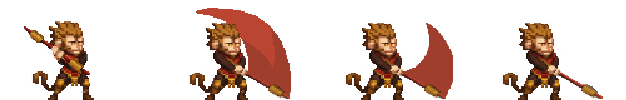
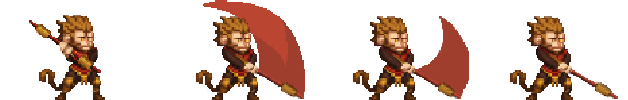
changed player atk sprite

diff --git a/Player/Player.cpp b/Player/Player.cpp
@@ -17,8 +17,9 @@
 #include <iostream>
 #include <ostream>
 
-const int PLAYER_SIZE = 100;
-const int SPEED = PLAYER_SIZE / 16;
+const int PLAYER_WIDTH  = 157;
+const int PLAYER_HEIGHT = 100;
+const int SPEED = PLAYER_HEIGHT / 16;
 
 const int ATTACK_RADIUS = 100;
 
@@ -43,7 +44,7 @@ void Player::Create(int hp, int x, int y, std::string name){
     flag = 0;
     idle_sheet = al_load_bitmap("Resource/images/character/idle-sheet.png");
     if (!idle_sheet) {
-        std::cerr << "Failed to load player_bitmap" << std::endl;
+        std::cerr << "Failed to load player_bitmap(idle-sheet.png)" << std::endl;
     }
     int frameW = al_get_bitmap_width(idle_sheet) / IDLE_FRAME_COUNT;
     int frameH = al_get_bitmap_height(idle_sheet);
@@ -58,7 +59,7 @@ void Player::Create(int hp, int x, int y, std::string name){
 
     idle_sheet = al_load_bitmap("Resource/images/character/attack-sheet.png");
     if (!idle_sheet) {
-        std::cerr << "Failed to load player_bitmap" << std::endl;
+        std::cerr << "Failed to load player_bitmap(atk)" << std::endl;
     }
     frameW = al_get_bitmap_width(idle_sheet) / ATTACK_FRAME_COUNT;
     frameH = al_get_bitmap_height(idle_sheet);
@@ -138,9 +139,9 @@ void Player::Update(float deltaTime) {
         knockbackRemaining -= step;
         // (optional) you can check collisions here if you don’t want them shoved into walls
         if (dx >= 0 && dy >= 0 &&
-        dx + PLAYER_SIZE - 1 < scene->MapWidth * scene->BlockSize && dy + PLAYER_SIZE - 1 < scene->MapHeight * scene->BlockSize &&
-        !scene->map.IsCollision(dx, dy) && !scene->map.IsCollision(dx + PLAYER_SIZE - 1, dy + PLAYER_SIZE - 1) &&
-        !scene->map.IsCollision(dx, dy + PLAYER_SIZE - 1) && !scene->map.IsCollision(dx + PLAYER_SIZE - 1, dy)) {
+        dx + PLAYER_WIDTH - 1 < scene->MapWidth * scene->BlockSize && dy + PLAYER_HEIGHT - 1 < scene->MapHeight * scene->BlockSize &&
+        !scene->map.IsCollision(dx, dy) && !scene->map.IsCollision(dx + PLAYER_WIDTH - 1, dy + PLAYER_HEIGHT - 1) &&
+        !scene->map.IsCollision(dx, dy + PLAYER_HEIGHT - 1) && !scene->map.IsCollision(dx + PLAYER_WIDTH - 1, dy)) {
             x = dx;
             y = dy;
         }
@@ -161,15 +162,15 @@ void Player::Update(float deltaTime) {
         // test a one-pixel step
         int testY = y + signDY;
         int leftX = x;
-        int rightX = x + PLAYER_SIZE - 1;
+        int rightX = x + PLAYER_WIDTH - 1;
         bool collided = false;
 
         if (signDY > 0) {
             // moving down: check the two bottom corners
             // world-coords = (leftX, testY+PLAYER_SIZE-1) and (rightX, testY+PLAYER_SIZE-1)
-            if (scene->map.IsCollision(leftX,           testY + PLAYER_SIZE - 1) ||
-                scene->map.IsCollision(rightX,          testY + PLAYER_SIZE - 1) ||
-                scene->map.IsCollision(leftX + PLAYER_SIZE / 2, testY + PLAYER_SIZE - 1))
+            if (scene->map.IsCollision(leftX,           testY + PLAYER_HEIGHT - 1) ||
+                scene->map.IsCollision(rightX,          testY + PLAYER_HEIGHT - 1) ||
+                scene->map.IsCollision(leftX + PLAYER_WIDTH / 2, testY + PLAYER_HEIGHT - 1))
             {
                 // We’ve hit the ground. Land here:
                 vy = 0;
@@ -182,7 +183,7 @@ void Player::Update(float deltaTime) {
             // world-coords = (leftX, testY) and (rightX, testY)
             if (scene->map.IsCollision(leftX,           testY) ||
                 scene->map.IsCollision(rightX,          testY) ||
-                scene->map.IsCollision(leftX + PLAYER_SIZE / 2, testY))
+                scene->map.IsCollision(leftX + PLAYER_WIDTH / 2, testY))
             {
                 // We’ve hit a ceiling. Stop upward momentum:
                 vy = 0;
@@ -224,9 +225,9 @@ void Player::Update(float deltaTime) {
     int mapPixelW = scene->MapWidth * scene->BlockSize;
     int mapPixelH = scene->MapHeight * scene->BlockSize;
     if (x < 0)                           x = 0;
-    if (x + PLAYER_SIZE > mapPixelW)     x = mapPixelW - PLAYER_SIZE;
+    if (x + PLAYER_WIDTH > mapPixelW)     x = mapPixelW - PLAYER_WIDTH;
     if (y < 0)                           y = 0;
-    if (y + PLAYER_SIZE > mapPixelH)     y = mapPixelH - PLAYER_SIZE;
+    if (y + PLAYER_HEIGHT > mapPixelH)     y = mapPixelH - PLAYER_HEIGHT;
 }
 
 Player::Player(){
@@ -272,9 +273,9 @@ void Player::move(int keyCode) {
         flag = 0;
     }
     if (dx >= 0 && dy >= 0 &&
-        dx + PLAYER_SIZE - 1 < scene->MapWidth * scene->BlockSize && dy + PLAYER_SIZE - 1 < scene->MapHeight * scene->BlockSize &&
-        !scene->map.IsCollision(dx, dy) && !scene->map.IsCollision(dx + PLAYER_SIZE - 1, dy + PLAYER_SIZE - 1) &&
-        !scene->map.IsCollision(dx, dy + PLAYER_SIZE - 1) && !scene->map.IsCollision(dx + PLAYER_SIZE - 1, dy)) {
+        dx + PLAYER_WIDTH - 1 < scene->MapWidth * scene->BlockSize && dy + PLAYER_HEIGHT - 1 < scene->MapHeight * scene->BlockSize &&
+        !scene->map.IsCollision(dx, dy) && !scene->map.IsCollision(dx + PLAYER_WIDTH - 1, dy + PLAYER_HEIGHT - 1) &&
+        !scene->map.IsCollision(dx, dy + PLAYER_HEIGHT - 1) && !scene->map.IsCollision(dx + PLAYER_WIDTH - 1, dy)) {
         x = dx;
         y = dy;
     }
@@ -301,7 +302,7 @@ void Player::Draw(Camera cam){
           0, 0,
           al_get_bitmap_width(bmp), al_get_bitmap_height(bmp),
           dx, dy,
-          PLAYER_SIZE, PLAYER_SIZE,
+          PLAYER_WIDTH, PLAYER_HEIGHT,
           flag
         );
     } else {
@@ -310,7 +311,7 @@ void Player::Draw(Camera cam){
           0, 0,
           al_get_bitmap_width(bmp), al_get_bitmap_height(bmp),
           dx, dy,
-          PLAYER_SIZE, PLAYER_SIZE,
+          PLAYER_WIDTH, PLAYER_HEIGHT,
           flag
         );
     }
@@ -320,7 +321,7 @@ void Player::Draw(Camera cam){
 bool Player::enemyInRange(int x, int y) {
     if (dir == RIGHT) {
         if (x > this->x &&
-            x < this->x + PLAYER_SIZE + attackRadius) {
+            x < this->x + PLAYER_WIDTH + attackRadius) {
             return true;
         }
     } else if (dir == LEFT) {
